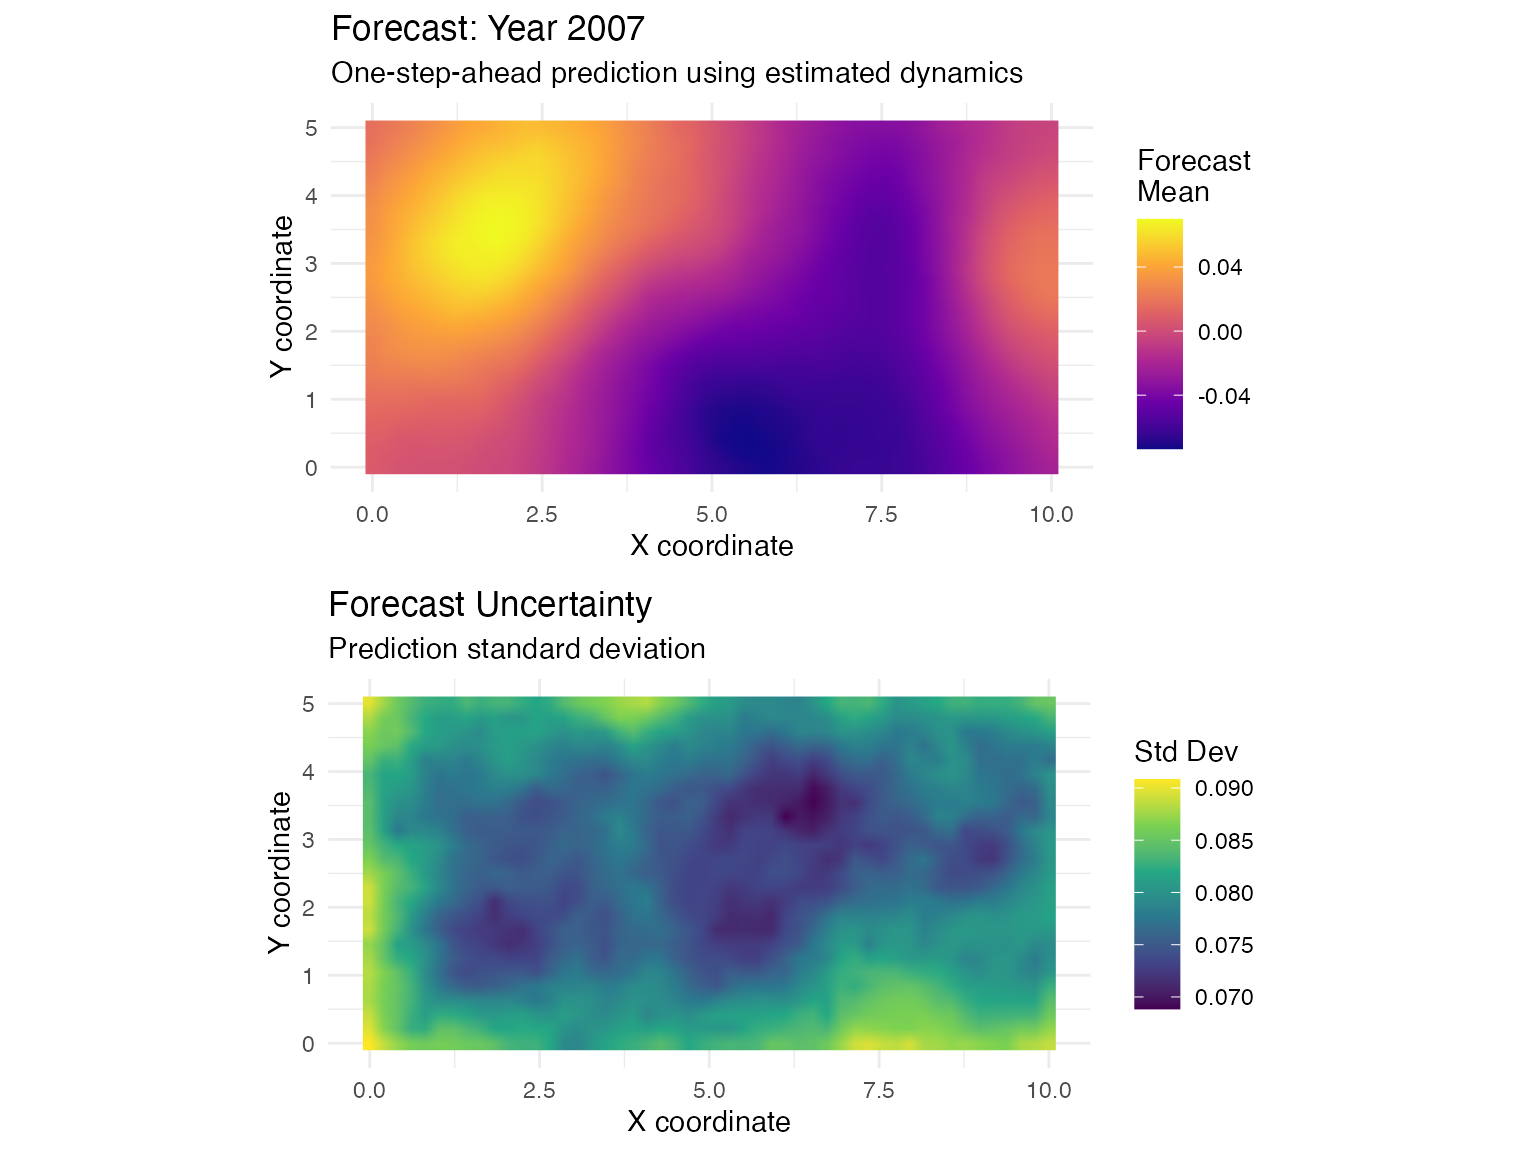
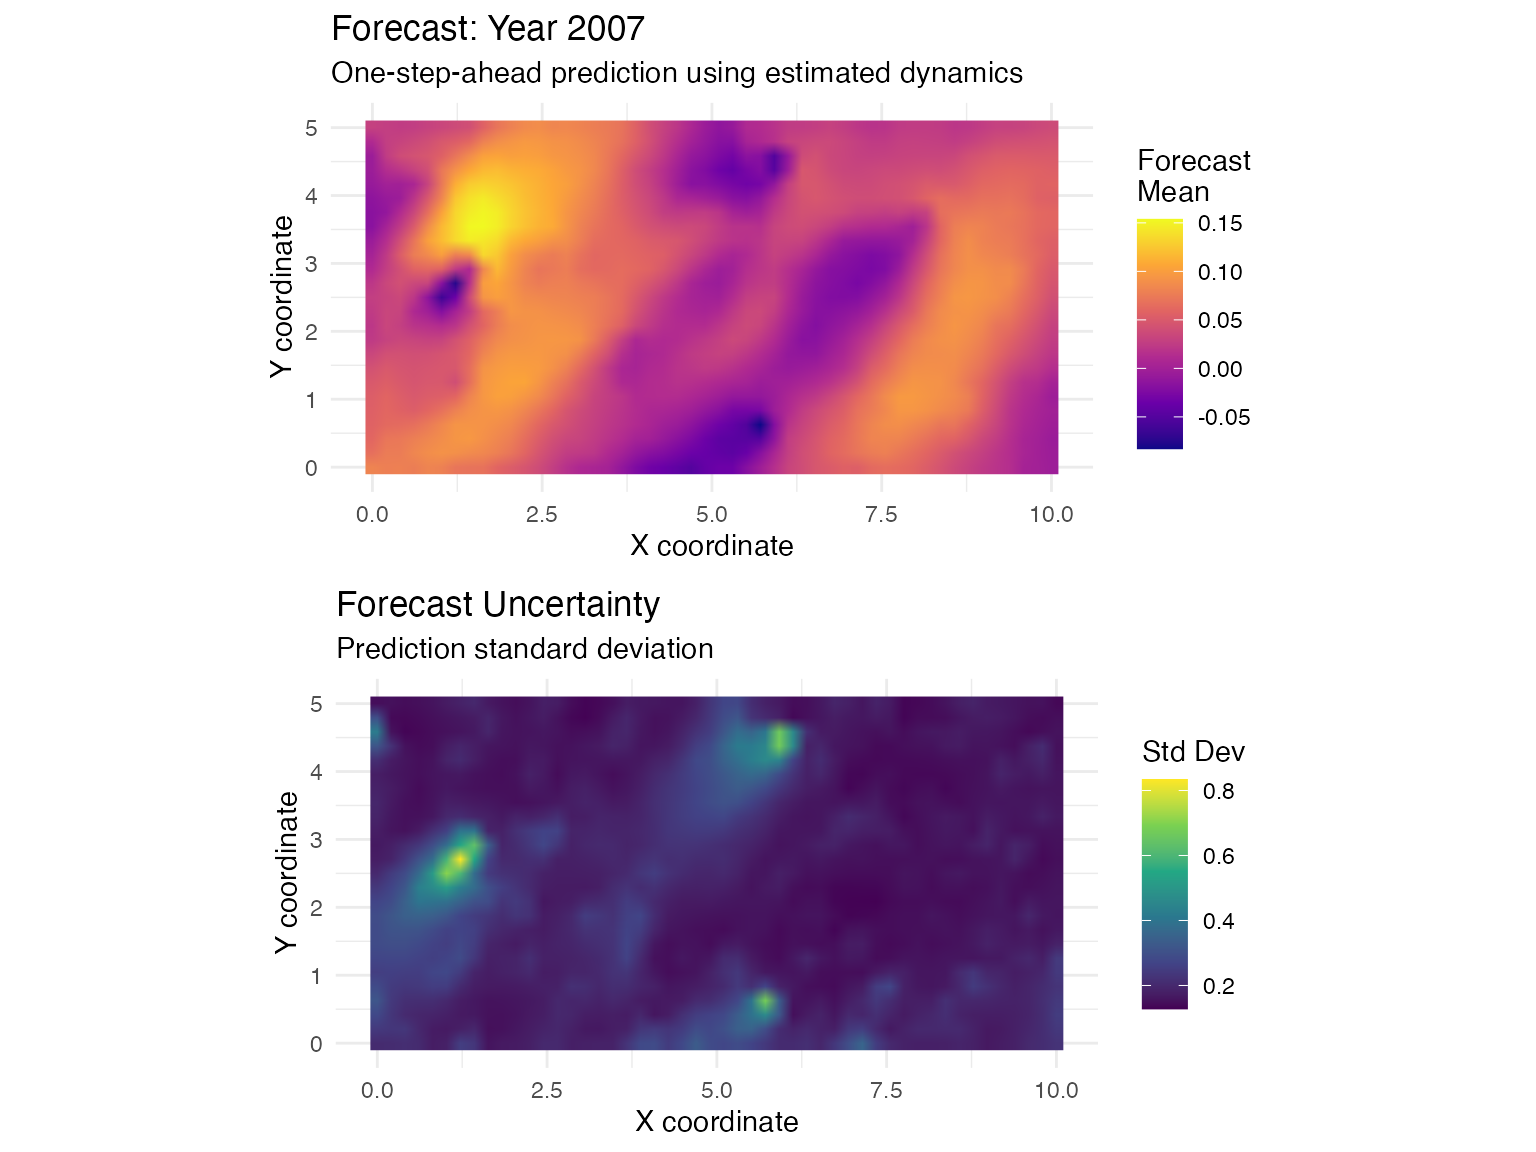
update readme

diff --git a/docs/articles/non-separable-model.html b/docs/articles/non-separable-model.html
@@ -473,6 +473,11 @@ have correlation around 0.13 under the Matérn model with
 <p>Now we create the model object and simulate observations:</p>
 <div class="sourceCode" id="cb5"><pre class="downlit sourceCode r">
 <code class="sourceCode R"><span><span class="co"># Specify the true generative model</span></span>
+<span><span class="va">true_mu</span> <span class="op">&lt;-</span> <span class="fl">1</span></span>
+<span><span class="va">true_sigma</span> <span class="op">&lt;-</span> <span class="fl">4</span></span>
+<span><span class="va">true_nu</span> <span class="op">&lt;-</span> <span class="fl">20</span></span>
+<span><span class="va">true_noise</span> <span class="op">&lt;-</span> <span class="fu"><a href="../reference/ngme_noise.html">noise_nig</a></span><span class="op">(</span>mu <span class="op">=</span> <span class="va">true_mu</span>, sigma <span class="op">=</span> <span class="va">true_sigma</span>, nu <span class="op">=</span> <span class="va">true_nu</span><span class="op">)</span></span>
+<span></span>
 <span><span class="va">true_model</span> <span class="op">&lt;-</span> <span class="fu"><a href="../reference/f.html">f</a></span><span class="op">(</span></span>
 <span>  map <span class="op">=</span> <span class="fu"><a href="https://rdrr.io/r/base/list.html" class="external-link">list</a></span><span class="op">(</span></span>
 <span>    <span class="va">obs_data</span><span class="op">$</span><span class="va">time_index</span>,</span>
@@ -488,7 +493,7 @@ have correlation around 0.13 under the Matérn model with
 <span>    cc <span class="op">=</span> <span class="va">true_cc</span>,</span>
 <span>    lambda <span class="op">=</span> <span class="va">true_lambda</span>,</span>
 <span>  <span class="op">)</span>,</span>
-<span>  noise <span class="op">=</span> <span class="fu"><a href="../reference/ngme_noise.html">noise_nig</a></span><span class="op">(</span>mu <span class="op">=</span> <span class="fl">1</span>, sigma <span class="op">=</span> <span class="fl">4</span>, nu <span class="op">=</span> <span class="fl">20</span><span class="op">)</span> <span class="co"># Non-Gaussian innovations</span></span>
+<span>  noise <span class="op">=</span> <span class="va">true_noise</span></span>
 <span><span class="op">)</span></span>
 <span></span>
 <span><span class="co"># Generate latent field realizations</span></span>
@@ -572,18 +577,31 @@ high-dimensional parameter spaces.</p>
 <span>    model <span class="op">=</span> <span class="fu"><a href="../reference/spacetime.html">spacetime</a></span><span class="op">(</span></span>
 <span>      mesh <span class="op">=</span> <span class="fu"><a href="https://rdrr.io/r/base/list.html" class="external-link">list</a></span><span class="op">(</span><span class="va">mesh_temporal</span>, <span class="va">mesh_spatial</span><span class="op">)</span></span>
 <span>    <span class="op">)</span>,</span>
+<span>    noise <span class="op">=</span> <span class="fu"><a href="../reference/ngme_noise.html">noise_nig</a></span><span class="op">(</span><span class="op">)</span>,</span>
 <span>    name <span class="op">=</span> <span class="st">"advection_field"</span>,</span>
 <span>  <span class="op">)</span>,</span>
 <span>  data <span class="op">=</span> <span class="va">obs_data</span>,</span>
 <span>  family <span class="op">=</span> <span class="st">"normal"</span>, <span class="co"># Observation distribution</span></span>
 <span>  control_opt <span class="op">=</span> <span class="fu"><a href="../reference/control_opt.html">control_opt</a></span><span class="op">(</span></span>
-<span>    iterations <span class="op">=</span> <span class="fl">500</span>,</span>
+<span>    iterations <span class="op">=</span> <span class="fl">1000</span>,</span>
 <span>    optimizer <span class="op">=</span> <span class="fu"><a href="../reference/adamW.html">adamW</a></span><span class="op">(</span><span class="op">)</span>,</span>
-<span>    n_parallel_chain <span class="op">=</span> <span class="fl">2</span>,</span>
+<span>    n_parallel_chain <span class="op">=</span> <span class="fl">1</span>,</span>
 <span>    verbose <span class="op">=</span> <span class="cn">FALSE</span>,</span>
 <span>    seed <span class="op">=</span> <span class="fl">2024</span></span>
 <span>  <span class="op">)</span></span>
-<span><span class="op">)</span></span></code></pre></div>
+<span><span class="op">)</span></span>
+<span><span class="va">model_nonsep</span></span>
+<span><span class="fu"><a href="../reference/traceplot.html">traceplot</a></span><span class="op">(</span><span class="va">model_nonsep</span><span class="op">)</span></span></code></pre></div>
+<p><img src="non-separable-model_files/figure-html/fit-nonseparable-1.png" width="100%"></p>
+<div class="sourceCode" id="cb7"><pre class="downlit sourceCode r">
+<code class="sourceCode R"><span><span class="fu"><a href="../reference/traceplot.html">traceplot</a></span><span class="op">(</span><span class="va">model_nonsep</span>, <span class="st">"advection_field"</span>, hline <span class="op">=</span> <span class="fu"><a href="https://rdrr.io/r/base/c.html" class="external-link">c</a></span><span class="op">(</span></span>
+<span>  <span class="va">true_cc</span>,</span>
+<span>  <span class="va">true_kappa</span>,</span>
+<span>  <span class="va">true_theta_gamma_x</span>,</span>
+<span>  <span class="va">true_theta_gamma_y</span>,</span>
+<span>  <span class="va">true_mu</span>, <span class="va">true_sigma</span>, <span class="va">true_nu</span></span>
+<span><span class="op">)</span><span class="op">)</span></span></code></pre></div>
+<p><img src="non-separable-model_files/figure-html/fit-nonseparable-2.png" width="100%"></p>
 <p><strong>Model specification details:</strong></p>
 <ul>
 <li>
@@ -602,7 +620,7 @@ finite element meshes for both dimensions</li>
 <code>n_parallel_chain = 2</code>: Runs optimization from two random
 starting points to avoid local optima</li>
 </ul>
-<div class="sourceCode" id="cb7"><pre class="downlit sourceCode r">
+<div class="sourceCode" id="cb8"><pre class="downlit sourceCode r">
 <code class="sourceCode R"><span><span class="fu"><a href="https://rdrr.io/r/base/summary.html" class="external-link">summary</a></span><span class="op">(</span><span class="va">model_nonsep</span><span class="op">)</span></span>
 <span><span class="co">#&gt; *** Ngme object ***</span></span>
 <span><span class="co">#&gt; </span></span>
@@ -613,18 +631,20 @@ starting points to avoid local optima</li>
 <span><span class="co">#&gt; $advection_field</span></span>
 <span><span class="co">#&gt;   Model type: Space-time (Implicit Euler)</span></span>
 <span><span class="co">#&gt;       alpha = 2 (fixed) </span></span>
-<span><span class="co">#&gt;       theta_gamma_x = -0.43 </span></span>
-<span><span class="co">#&gt;       theta_gamma_y = -0.43 </span></span>
-<span><span class="co">#&gt;       cc = 1 </span></span>
-<span><span class="co">#&gt;       kappa = 0.15 </span></span>
-<span><span class="co">#&gt;   Noise type: NORMAL</span></span>
+<span><span class="co">#&gt;       theta_gamma_x = 2.1 </span></span>
+<span><span class="co">#&gt;       theta_gamma_y = 2.3 </span></span>
+<span><span class="co">#&gt;       cc = 0.84 </span></span>
+<span><span class="co">#&gt;       kappa = 0.26 </span></span>
+<span><span class="co">#&gt;   Noise type: NIG</span></span>
 <span><span class="co">#&gt;   Noise parameters: </span></span>
-<span><span class="co">#&gt;       sigma = 0.249</span></span>
+<span><span class="co">#&gt;       mu = -0.162</span></span>
+<span><span class="co">#&gt;       sigma = 1.47</span></span>
+<span><span class="co">#&gt;       nu = 0.0311</span></span>
 <span><span class="co">#&gt; </span></span>
 <span><span class="co">#&gt; Measurement noise: </span></span>
 <span><span class="co">#&gt;   Noise type: NORMAL</span></span>
 <span><span class="co">#&gt;   Noise parameters: </span></span>
-<span><span class="co">#&gt;       sigma = 0.498</span></span></code></pre></div>
+<span><span class="co">#&gt;       sigma = 0.404</span></span></code></pre></div>
 <p>The summary output shows the estimated parameters along with standard
 errors (if computed). Key quantities include the likelihood value,
 convergence status, and parameter estimates with uncertainty
@@ -635,7 +655,7 @@ quantification.</p>
 </h3>
 <p>Let’s extract and interpret the estimated parameters, comparing them
 to the true values used in simulation:</p>
-<div class="sourceCode" id="cb8"><pre class="downlit sourceCode r">
+<div class="sourceCode" id="cb9"><pre class="downlit sourceCode r">
 <code class="sourceCode R"><span><span class="co"># Extract estimated parameters from the latent field model</span></span>
 <span><span class="va">params</span> <span class="op">&lt;-</span> <span class="va">model_nonsep</span><span class="op">$</span><span class="va">replicates</span><span class="op">[[</span><span class="fl">1</span><span class="op">]</span><span class="op">]</span><span class="op">$</span><span class="va">models</span><span class="op">[[</span><span class="fl">1</span><span class="op">]</span><span class="op">]</span><span class="op">$</span><span class="va">theta_K</span></span>
 <span></span>
@@ -655,22 +675,22 @@ to the true values used in simulation:</p>
 <tbody>
 <tr class="odd">
 <td align="left">κ (kappa)</td>
-<td align="right">0.0233</td>
+<td align="right">-0.1772</td>
 <td align="right">1.000</td>
 </tr>
 <tr class="even">
 <td align="left">c (time scale)</td>
-<td align="right">-1.9492</td>
+<td align="right">-1.3671</td>
 <td align="right">15.0</td>
 </tr>
 <tr class="odd">
 <td align="left">γ_x (velocity x)</td>
-<td align="right">-0.4226</td>
+<td align="right">2.1725</td>
 <td align="right">2.0</td>
 </tr>
 <tr class="even">
 <td align="left">γ_y (velocity y)</td>
-<td align="right">-0.4404</td>
+<td align="right">2.2583</td>
 <td align="right">0.0</td>
 </tr>
 </tbody>
@@ -711,7 +731,7 @@ evolution of advection-diffusion processes.</p>
 </h3>
 <p>We construct a regular grid of spatial locations and select multiple
 time points for visualization:</p>
-<div class="sourceCode" id="cb9"><pre class="downlit sourceCode r">
+<div class="sourceCode" id="cb10"><pre class="downlit sourceCode r">
 <code class="sourceCode R"><span><span class="co"># Define fine spatial grid for smooth visualization</span></span>
 <span><span class="va">x_pred</span> <span class="op">&lt;-</span> <span class="fu"><a href="https://rdrr.io/r/base/seq.html" class="external-link">seq</a></span><span class="op">(</span><span class="fl">0</span>, <span class="fl">10</span>, length.out <span class="op">=</span> <span class="fl">50</span><span class="op">)</span></span>
 <span><span class="va">y_pred</span> <span class="op">&lt;-</span> <span class="fu"><a href="https://rdrr.io/r/base/seq.html" class="external-link">seq</a></span><span class="op">(</span><span class="fl">0</span>, <span class="fl">5</span>, length.out <span class="op">=</span> <span class="fl">25</span><span class="op">)</span></span>
@@ -768,7 +788,7 @@ observation locations.</p>
 points. The <code><a href="https://rdrr.io/r/stats/predict.html" class="external-link">predict()</a></code> function performs kriging-style
 optimal spatio-temporal interpolation based on the estimated SPDE
 parameters:</p>
-<div class="sourceCode" id="cb10"><pre class="downlit sourceCode r">
+<div class="sourceCode" id="cb11"><pre class="downlit sourceCode r">
 <code class="sourceCode R"><span><span class="co"># Compute predictions (posterior mean and standard deviation)</span></span>
 <span><span class="va">pred_nonsep</span> <span class="op">&lt;-</span> <span class="fu"><a href="https://rdrr.io/r/stats/predict.html" class="external-link">predict</a></span><span class="op">(</span></span>
 <span>  <span class="va">model_nonsep</span>,</span>
@@ -794,19 +814,19 @@ domain:</p>
 <tbody>
 <tr class="odd">
 <td align="left">Mean (minimum)</td>
-<td align="right">-5.85</td>
+<td align="right">-26.87</td>
 </tr>
 <tr class="even">
 <td align="left">Mean (maximum)</td>
-<td align="right">2.43</td>
+<td align="right">7.53</td>
 </tr>
 <tr class="odd">
 <td align="left">Std. dev. (minimum)</td>
-<td align="right">0.05</td>
+<td align="right">0.06</td>
 </tr>
 <tr class="even">
 <td align="left">Std. dev. (maximum)</td>
-<td align="right">2.29</td>
+<td align="right">27.85</td>
 </tr>
 </tbody>
 </table>
@@ -821,7 +841,7 @@ times with sparse observations.</p>
 <p>We create a multi-panel visualization showing the field evolution
 across all 6 years, with arrows indicating the estimated transport
 direction and magnitude:</p>
-<div class="sourceCode" id="cb11"><pre class="downlit sourceCode r">
+<div class="sourceCode" id="cb12"><pre class="downlit sourceCode r">
 <code class="sourceCode R"><span><span class="kw"><a href="https://rdrr.io/r/base/library.html" class="external-link">library</a></span><span class="op">(</span><span class="va"><a href="https://sjmgarnier.github.io/viridis/" class="external-link">viridis</a></span><span class="op">)</span></span>
 <span></span>
 <span><span class="fu">ggplot</span><span class="op">(</span><span class="va">pred_data</span>, <span class="fu">aes</span><span class="op">(</span>x <span class="op">=</span> <span class="va">x</span>, y <span class="op">=</span> <span class="va">y</span>, fill <span class="op">=</span> <span class="va">mean</span><span class="op">)</span><span class="op">)</span> <span class="op">+</span></span>
@@ -866,7 +886,7 @@ direction and magnitude:</p>
 ability to forecast beyond the observed time period. We demonstrate this
 by predicting the field in year 2007, using only data from
 2001-2006.</p>
-<div class="sourceCode" id="cb12"><pre class="downlit sourceCode r">
+<div class="sourceCode" id="cb13"><pre class="downlit sourceCode r">
 <code class="sourceCode R"><span><span class="co"># Define forecast time point (one year ahead)</span></span>
 <span><span class="va">year_forecast</span> <span class="op">&lt;-</span> <span class="fl">2007</span></span>
 <span><span class="va">time_forecast</span> <span class="op">&lt;-</span> <span class="va">year_forecast</span> <span class="op">-</span> <span class="fl">2000</span></span>
@@ -902,22 +922,22 @@ by predicting the field in year 2007, using only data from
 <tbody>
 <tr class="odd">
 <td align="left">Mean (minimum)</td>
-<td align="right">-0.07</td>
+<td align="right">-0.08</td>
 </tr>
 <tr class="even">
 <td align="left">Mean (maximum)</td>
-<td align="right">0.07</td>
+<td align="right">0.15</td>
 </tr>
 <tr class="odd">
 <td align="left">Average uncertainty (SD)</td>
-<td align="right">0.08</td>
+<td align="right">0.20</td>
 </tr>
 </tbody>
 </table>
 <p>The forecast extends the temporal dynamics one step beyond the last
 observation, using the estimated advection velocity to project spatial
 patterns forward in time.</p>
-<div class="sourceCode" id="cb13"><pre class="downlit sourceCode r">
+<div class="sourceCode" id="cb14"><pre class="downlit sourceCode r">
 <code class="sourceCode R"><span><span class="co"># Forecast mean</span></span>
 <span><span class="va">p1</span> <span class="op">&lt;-</span> <span class="fu">ggplot</span><span class="op">(</span><span class="va">forecast_data</span>, <span class="fu">aes</span><span class="op">(</span>x <span class="op">=</span> <span class="va">x</span>, y <span class="op">=</span> <span class="va">y</span>, fill <span class="op">=</span> <span class="va">mean</span><span class="op">)</span><span class="op">)</span> <span class="op">+</span></span>
 <span>  <span class="fu">geom_raster</span><span class="op">(</span>interpolate <span class="op">=</span> <span class="cn">TRUE</span><span class="op">)</span> <span class="op">+</span></span>

diff --git a/docs/index.html b/docs/index.html
@@ -80,22 +80,21 @@
 <img src="logo.png" class="logo" alt=""><h1 id="the-ngme2-package-">The <code>ngme2</code> Package <a class="anchor" aria-label="anchor" href="#the-ngme2-package-"></a>
 </h1>
 </div>
-<p><code>ngme2</code> (<a href="https://davidbolin.github.io/ngme2/" class="uri">https://davidbolin.github.io/ngme2/</a>) is a unified, efficient, and flexible framework for fitting latent <strong>non-Gaussian</strong> models in R. It extends the SPDE-based Gaussian modeling toolkit to handle skewness, heavy tails, and non-smooth behavior while keeping familiar workflows for estimation, prediction, and model assessment.</p>
 <div class="section level2">
-<h2 id="what-you-get">What you get<a class="anchor" aria-label="anchor" href="#what-you-get"></a>
+<h2 id="description">Description<a class="anchor" aria-label="anchor" href="#description"></a>
+</h2>
+<p><code>ngme2</code> (<a href="https://davidbolin.github.io/ngme2/" class="uri">https://davidbolin.github.io/ngme2/</a>) is a unified, efficient, and flexible framework for fitting latent <strong>non-Gaussian</strong> models in R. It extends the SPDE-based Gaussian modeling toolkit to handle skewness, heavy tails, and non-smooth behavior while keeping familiar workflows for estimation, prediction, and model assessment.</p>
+</div>
+<div class="section level2">
+<h2 id="features">Features<a class="anchor" aria-label="anchor" href="#features"></a>
 </h2>
 <ul>
 <li>Temporal processes: AR(1), Ornstein–Uhlenbeck, random walks, and ARMA models.</li>
 <li>Spatial processes: Matérn fields (including graph-based meshes) and separable/non-separable space–time variants.</li>
 <li>Non-Gaussian driven noise: NIG, generalized asymmetric Laplace, skew-(t); non-Gaussian measurement noise is also supported.</li>
-<li>Joint and custom structures: bivariate type-G fields, longitudinal random-effects models, and user-defined operators via <code>generic</code> / <code>generic_ns</code>.</li>
+<li>Joint and custom structures: bivariate type-G fields, longitudinal random-effects models, and user-defined operators via <code>generic</code> / <code>generic_ns</code>, flexible combinations of different models and driven noise.</li>
 <li>Practical tools: kriging-style prediction, cross-validation helpers, and diagnostics for convergence/fit quality.</li>
 </ul>
-</div>
-<div class="section level2">
-<h2 id="model-framework-in-a-sentence">Model framework in a sentence<a class="anchor" aria-label="anchor" href="#model-framework-in-a-sentence"></a>
-</h2>
-<p>Data (Y) are linked to a latent process (W) through an observation matrix (A) and fixed effects (X), while both the process and measurement errors are modeled as normal mean–variance mixtures with generalized inverse Gaussian mixing. An operator (K) encodes spatial/temporal structure, letting the same template describe everything from simple random effects to rich spatio-temporal fields.</p>
 </div>
 <div class="section level2">
 <h2 id="quick-start">Quick start<a class="anchor" aria-label="anchor" href="#quick-start"></a>

diff --git a/docs/news/index.html b/docs/news/index.html
@@ -54,6 +54,7 @@
 <h2 class="pkg-version" data-toc-text="0.8.2" id="ngme2-082-2025-12-02">ngme2 0.8.2 (2025-12-02)<a class="anchor" aria-label="anchor" href="#ngme2-082-2025-12-02"></a></h2>
 <ul><li>Add support for different type of ldlt solvers</li>
 <li>Use solver_type and solver_backend in <code>control_opt</code> to specify the solver</li>
+<li>Give print when hit nu lower bound</li>
 </ul></div>
     <div class="section level2">
 <h2 class="pkg-version" data-toc-text="0.8.1" id="ngme2-081-2025-12-01">ngme2 0.8.1 (2025-12-01)<a class="anchor" aria-label="anchor" href="#ngme2-081-2025-12-01"></a></h2>

diff --git a/README.md b/README.md
@@ -1,16 +1,14 @@
 # The `ngme2` Package  <img src="man/figures/logo.png" align="right" width="80" height="80" />
 
+## Description
 `ngme2` (https://davidbolin.github.io/ngme2/) is a unified, efficient, and flexible framework for fitting latent **non-Gaussian** models in R. It extends the SPDE-based Gaussian modeling toolkit to handle skewness, heavy tails, and non-smooth behavior while keeping familiar workflows for estimation, prediction, and model assessment.
 
-## What you get
+## Features
 - Temporal processes: AR(1), Ornstein–Uhlenbeck, random walks, and ARMA models.
 - Spatial processes: Matérn fields (including graph-based meshes) and separable/non-separable space–time variants.
 - Non-Gaussian driven noise: NIG, generalized asymmetric Laplace, skew-\(t\); non-Gaussian measurement noise is also supported.
-- Joint and custom structures: bivariate type-G fields, longitudinal random-effects models, and user-defined operators via `generic` / `generic_ns`.
+- Joint and custom structures: bivariate type-G fields, longitudinal random-effects models, and user-defined operators via `generic` / `generic_ns`, flexible combinations of different models and driven noise.
 - Practical tools: kriging-style prediction, cross-validation helpers, and diagnostics for convergence/fit quality.
-
-## Model framework in a sentence
-Data \(Y\) are linked to a latent process \(W\) through an observation matrix \(A\) and fixed effects \(X\beta\), while both the process and measurement errors are modeled as normal mean–variance mixtures with generalized inverse Gaussian mixing. An operator \(K\) encodes spatial/temporal structure, letting the same template describe everything from simple random effects to rich spatio-temporal fields.
 
 ## Quick start
 ```r

diff --git a/index.md b/index.md
@@ -1,16 +1,14 @@
 # The `ngme2` Package  <img src="man/figures/logo.png" align="right" width="80" height="80" />
 
+## Description
 `ngme2` (https://davidbolin.github.io/ngme2/) is a unified, efficient, and flexible framework for fitting latent **non-Gaussian** models in R. It extends the SPDE-based Gaussian modeling toolkit to handle skewness, heavy tails, and non-smooth behavior while keeping familiar workflows for estimation, prediction, and model assessment.
 
-## What you get
+## Features
 - Temporal processes: AR(1), Ornstein–Uhlenbeck, random walks, and ARMA models.
 - Spatial processes: Matérn fields (including graph-based meshes) and separable/non-separable space–time variants.
 - Non-Gaussian driven noise: NIG, generalized asymmetric Laplace, skew-\(t\); non-Gaussian measurement noise is also supported.
-- Joint and custom structures: bivariate type-G fields, longitudinal random-effects models, and user-defined operators via `generic` / `generic_ns`.
+- Joint and custom structures: bivariate type-G fields, longitudinal random-effects models, and user-defined operators via `generic` / `generic_ns`, flexible combinations of different models and driven noise.
 - Practical tools: kriging-style prediction, cross-validation helpers, and diagnostics for convergence/fit quality.
-
-## Model framework in a sentence
-Data \(Y\) are linked to a latent process \(W\) through an observation matrix \(A\) and fixed effects \(X\beta\), while both the process and measurement errors are modeled as normal mean–variance mixtures with generalized inverse Gaussian mixing. An operator \(K\) encodes spatial/temporal structure, letting the same template describe everything from simple random effects to rich spatio-temporal fields.
 
 ## Quick start
 ```r
